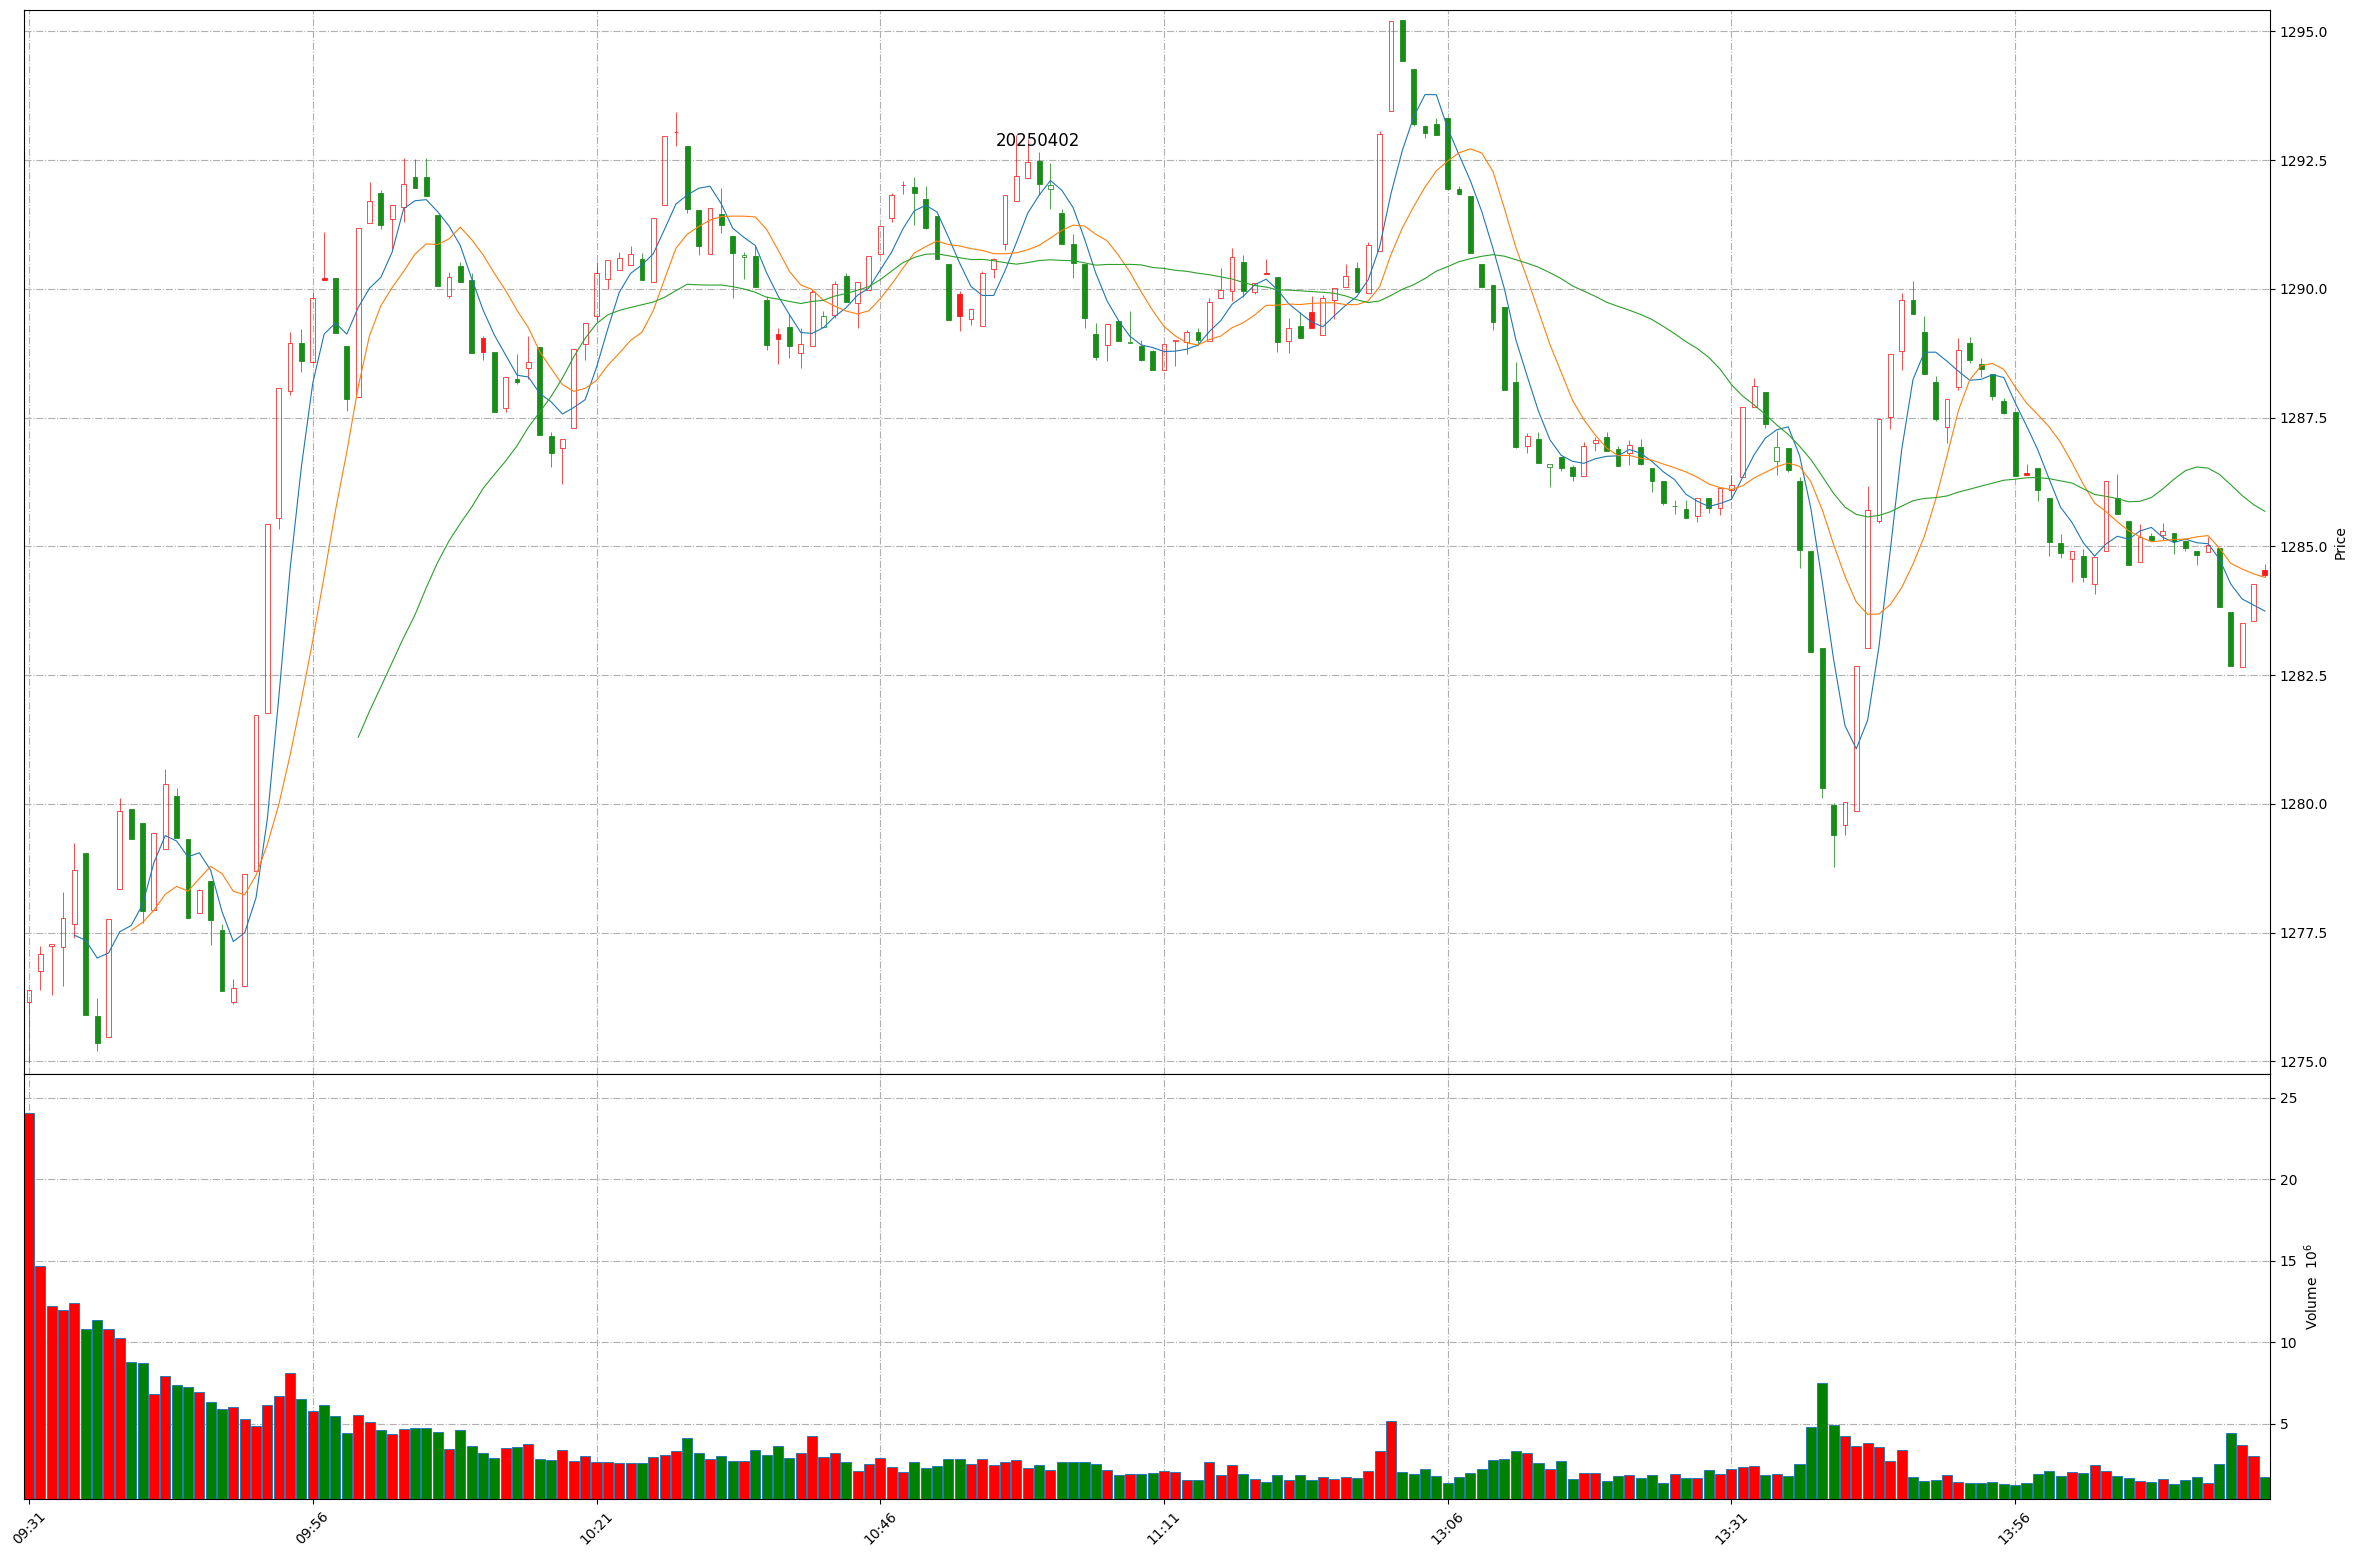
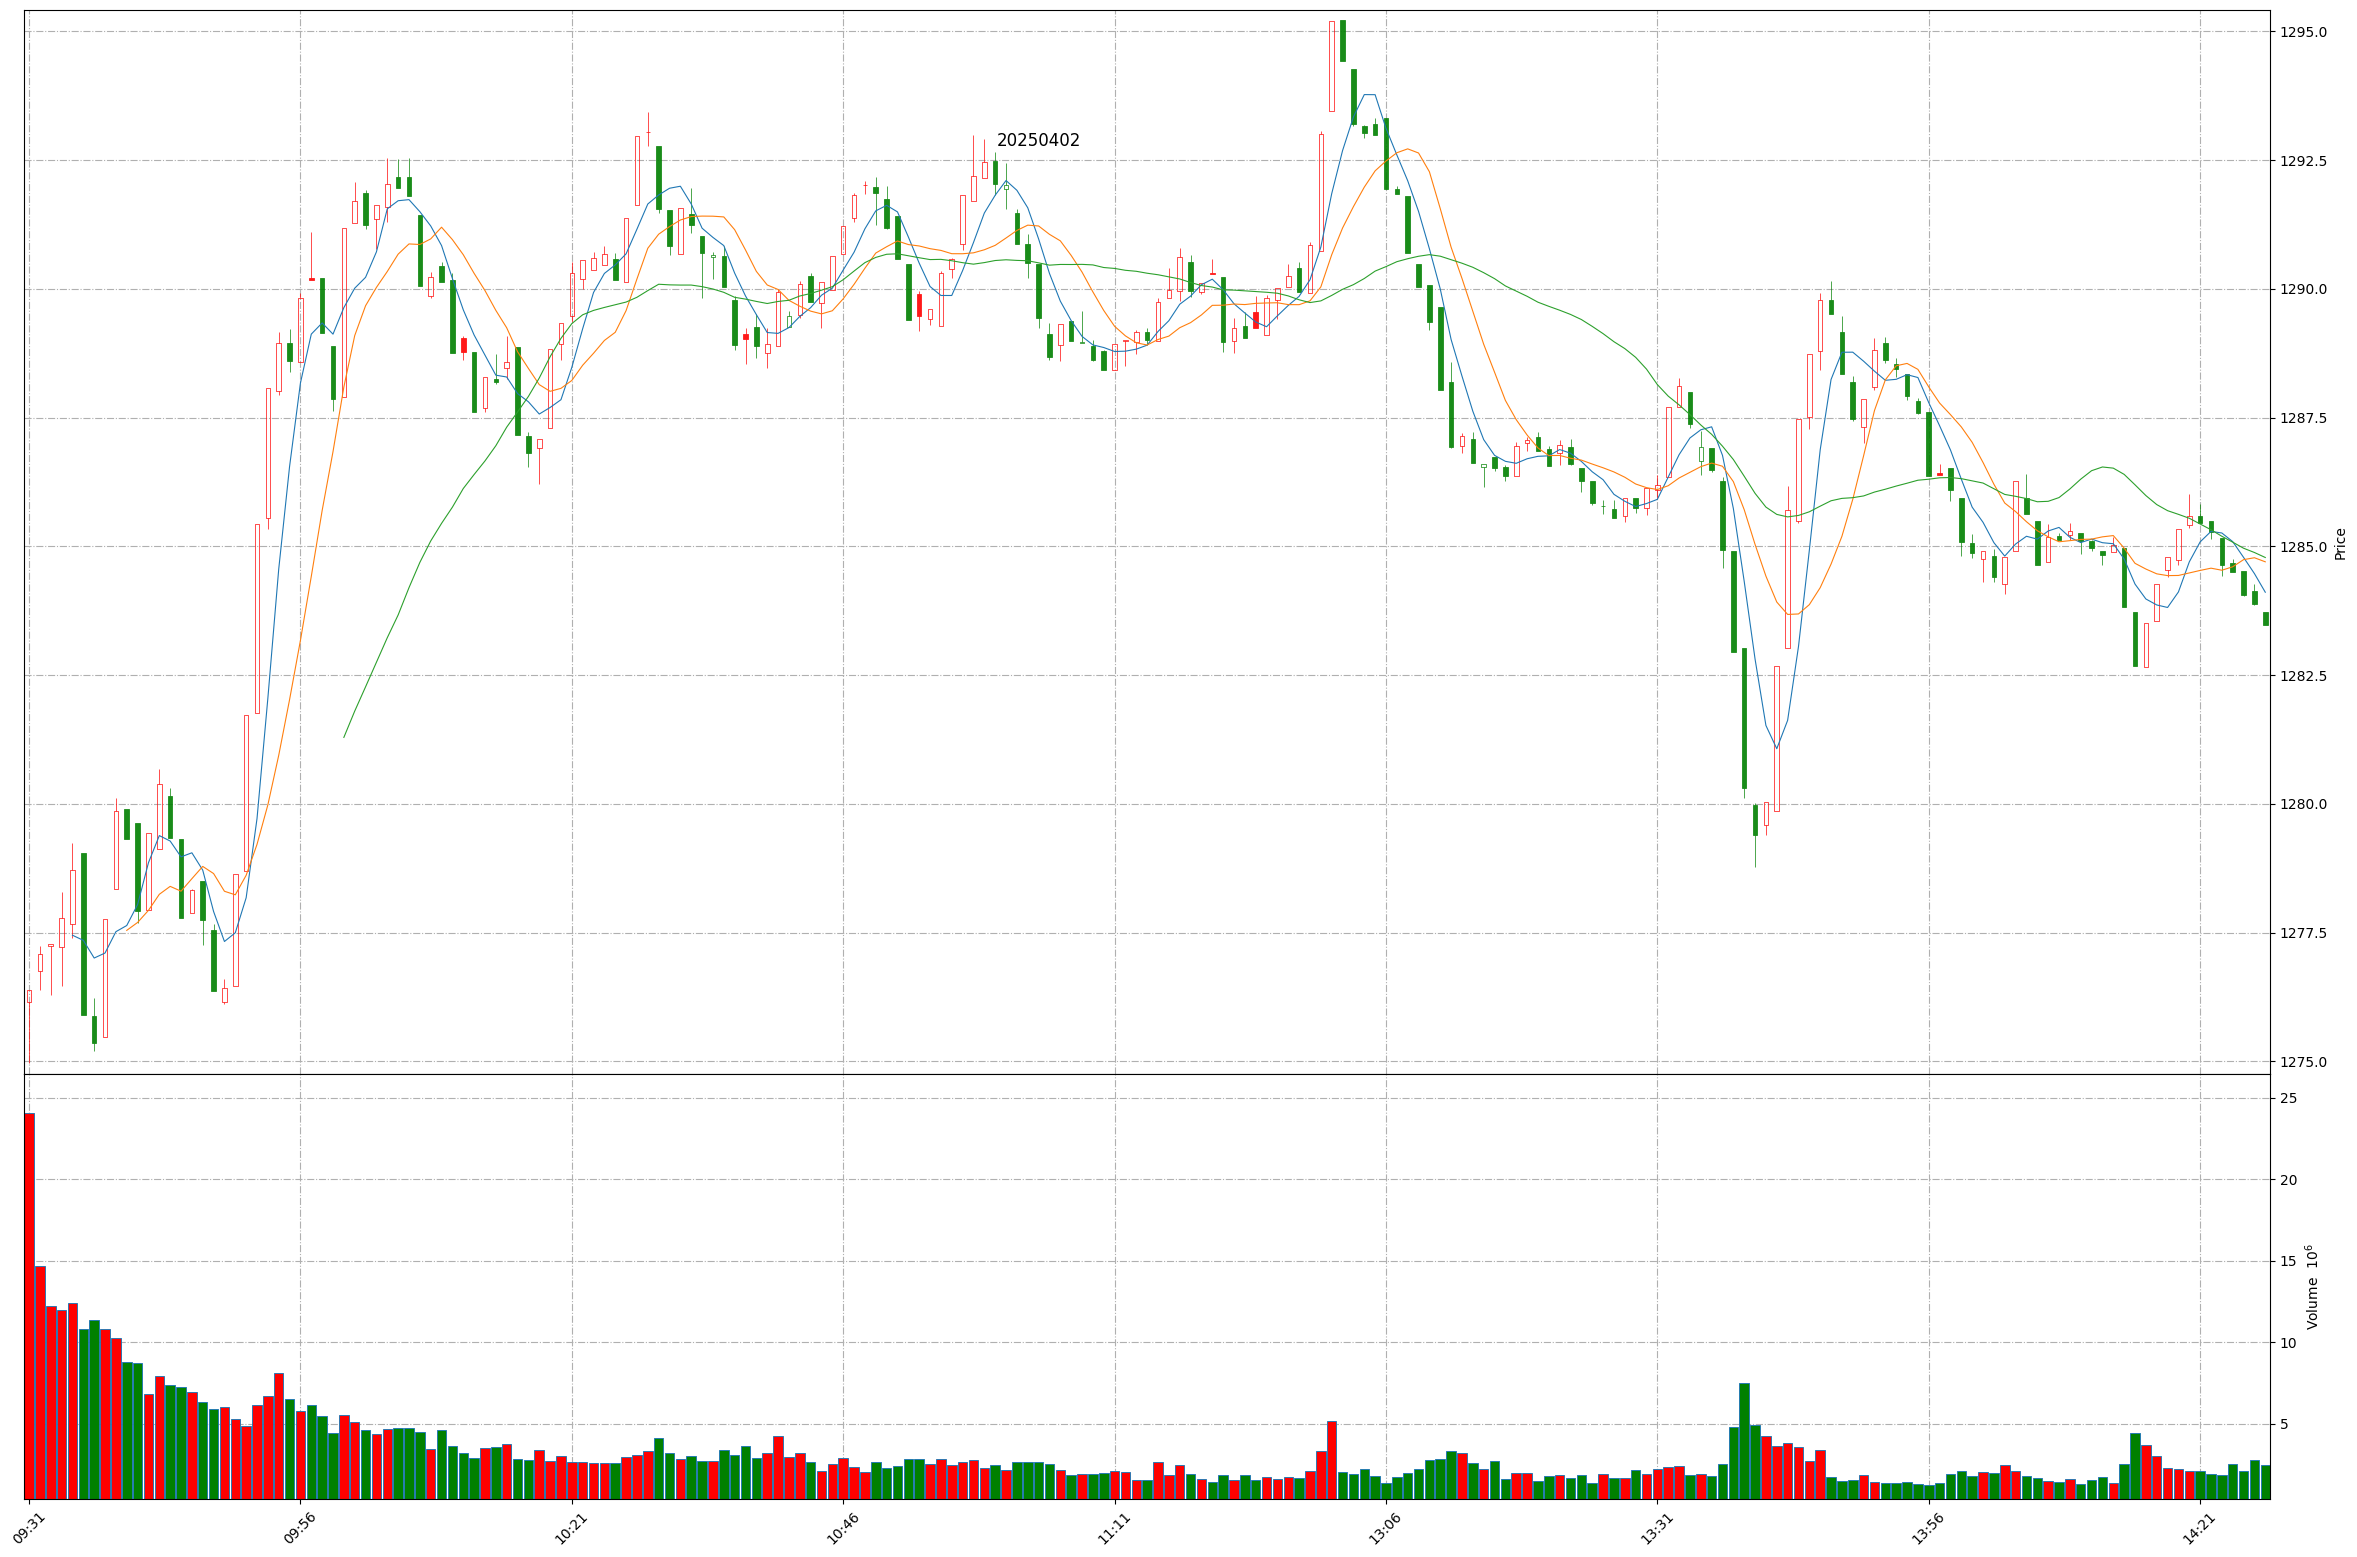
Github action update at 2025-04-02 14:27:01.

Changed region(s): [[0.1239, 0.0308, 0.9601, 0.4933], [0.031, 0.8324, 0.9601, 0.9865], [0.031, 0.3699, 0.1239, 0.6782]]

diff --git a/README.md b/README.md
@@ -1,11 +1,11 @@
 
 # Daily-A-share-market-quotes 每日 A 股指数（5min 更新）- 20250402
 
-### 上证指数 20250402 14:17
+### 上证指数 20250402 14:27
 ![](./fig/2025/4/20250402-sh000001.png)
 
-### 深证成指 20250402 14:17
+### 深证成指 20250402 14:27
 ![](./fig/2025/4/20250402-sz399001.png)
 
-### 北证50 20250402 14:17
+### 北证50 20250402 14:27
 ![](./fig/2025/4/20250402-bj899050.png)
